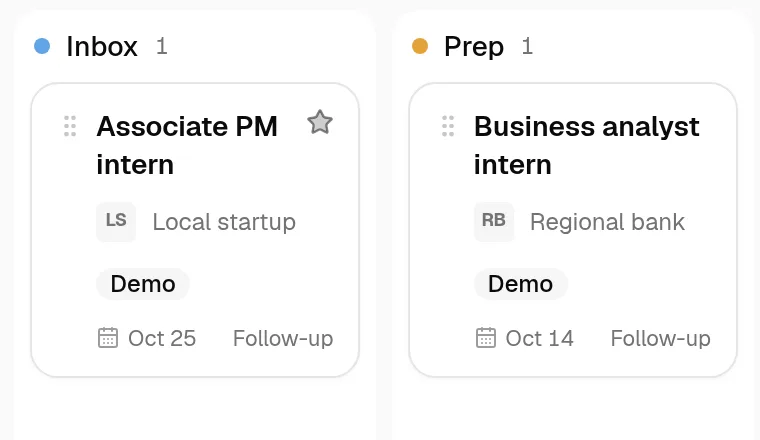
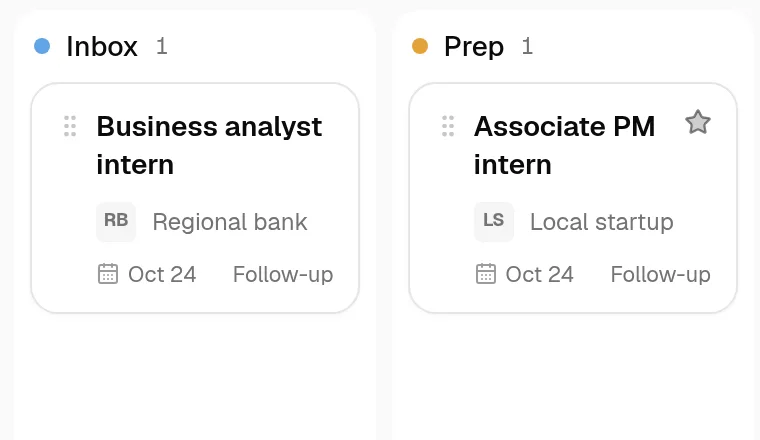
feat: landing round 2 shots and copy

diff --git a/apps/web/src/features/landing/landing-copy.ts b/apps/web/src/features/landing/landing-copy.ts
@@ -2,7 +2,7 @@ export const LANDING_HEADLINE =
   "A first-job coach for Vietnamese students and new graduates."
 
 export const LANDING_SUBHEAD =
-  "OpenCV is one workspace for your job search, with a coach beside you. You write your CV with the coach, then track each application and share one page of your work."
+  "OpenCV is a coach with a CV editor, an application board and a public page for your work. You write the CV with the coach, then send each application and track every answer."
 
 export const LANDING_OBJECTION =
   "Answers come from your CV and goals, and you edit every line."
@@ -31,49 +31,51 @@ export type LandingSurface = {
 export const LANDING_HERO_SHOT: Shot = {
   src: "/landing/coach.webp",
   mobileSrc: "/landing/coach-mobile.webp",
-  width: 1600,
-  height: 573,
+  width: 1440,
+  height: 705,
   mobileWidth: 780,
-  mobileHeight: 820,
-  alt: "A Coach thread. Linh, a student, asks for help preparing for a product intern interview, and the Coach checks her Apply cards and replies with a next step.",
+  mobileHeight: 900,
+  displayWidth: 960,
+  alt: "A Coach thread. Linh, a student, asks which role to apply for first, and the Coach checks her Apply cards and names one, citing her CV.",
 }
 
 export const LANDING_SURFACES: readonly LandingSurface[] = [
   {
     id: "coach",
     label: "Coach",
-    title: "Ask about the role you want.",
-    body: "First, name the job you want. The coach answers from your own CV and goals and ends with a next step.",
+    title: "Find the role to apply for.",
+    body: "First, pick one job: the coach names it from your CV and goals and files it on your board. Every move shows a receipt you can undo.",
     shot: {
-      src: "/landing/coach-home.webp",
-      mobileSrc: "/landing/coach-home-mobile.webp",
-      width: 1600,
-      height: 640,
+      src: "/landing/coach-act.webp",
+      mobileSrc: "/landing/coach-act-mobile.webp",
+      width: 1440,
+      height: 600,
       mobileWidth: 780,
-      mobileHeight: 1080,
-      alt: "OpenCV Home for Linh Tran, a student. The Coach asks what she is aiming for and offers prompts such as Prep interview and Draft cover letter.",
+      mobileHeight: 900,
+      displayWidth: 960,
+      alt: "A Coach thread. Linh asks the Coach to move the Associate PM intern card to Prep, and the Coach shows a receipt with an Undo button.",
     },
   },
   {
     id: "paper",
     label: "Paper",
     title: "Write the CV beside the coach.",
-    body: "Then write your CV with a coach beside you. Tailor it to each role and export it.",
+    body: "Then send a CV written for that job. Pick a bullet, ask the coach to rewrite it, and edit the result.",
     shot: {
       src: "/landing/paper.webp",
       mobileSrc: "/landing/paper-mobile.webp",
       width: 1600,
-      height: 1000,
-      mobileWidth: 780,
-      mobileHeight: 1010,
-      alt: "The Paper editor with Linh Tran's CV open: a student summary and a campus product club role, with a template picker, Tailor for role and Export above the page.",
+      height: 1041,
+      mobileWidth: 790,
+      mobileHeight: 710,
+      alt: "The Paper editor with Linh Tran's CV open beside the Coach, which has rewritten a bullet about classmate interviews into a one-page product spec.",
     },
   },
   {
     id: "apply",
     label: "Apply",
     title: "Track every application.",
-    body: "Next, keep each job you apply for on one board. Move cards from first look to final answer.",
+    body: "Next, see where each application stands: Inbox, Prep, Sent, Live or Closed. Move cards as answers arrive.",
     shot: {
       src: "/landing/apply.webp",
       mobileSrc: "/landing/apply-mobile.webp",
@@ -81,14 +83,14 @@ export const LANDING_SURFACES: readonly LandingSurface[] = [
       height: 467,
       mobileWidth: 760,
       mobileHeight: 440,
-      alt: "The Apply board with an Associate PM intern job in Inbox and a Business analyst intern job in Prep, beside the Sent, Live and Closed columns.",
+      alt: "The Apply board with a Business analyst intern job in Inbox, an Associate PM intern job in Prep and a UX research intern job in Sent.",
     },
   },
   {
     id: "pitch",
     label: "Pitch",
     title: "Share one page of your work.",
-    body: "Last, turn your best work into one page. Send the link with every application.",
+    body: "Last, show what a CV cannot: your projects, in one page you can link. Send it with every application.",
     shot: {
       src: "/landing/pitch.webp",
       mobileSrc: "/landing/pitch-mobile.webp",
@@ -97,12 +99,13 @@ export const LANDING_SURFACES: readonly LandingSurface[] = [
       mobileWidth: 780,
       mobileHeight: 1060,
       displayWidth: 720,
-      alt: "A public Pitch page for Linh Tran, a student aiming for a product intern role, with a status line, story highlights and an About section.",
+      alt: "A public Pitch page for Linh Tran, a student aiming for a product intern role, with an open-to-internships status, story highlights and an About section.",
     },
   },
 ]
 
-export const LANDING_CTA = "Your career, started. Free today."
+export const LANDING_CTA =
+  "Write the CV, send it, and keep every answer in one place. Free today."
 
 export const LANDING_TITLE =
   "OpenCV, a first-job coach for Vietnamese students and new graduates"

diff --git a/apps/web/src/features/landing/landing-page.test.tsx b/apps/web/src/features/landing/landing-page.test.tsx
@@ -25,7 +25,7 @@ describe("landing page", () => {
     )
     expect(
       screen.getByText(
-        "OpenCV is one workspace for your job search, with a coach beside you. You write your CV with the coach, then track each application and share one page of your work."
+        "OpenCV is a coach with a CV editor, an application board and a public page for your work. You write the CV with the coach, then send each application and track every answer."
       )
     ).toBeInTheDocument()
     expect(router.state.location.pathname).toBe("/")
@@ -43,7 +43,7 @@ describe("landing page", () => {
       document.head.querySelector('meta[name="description"]')
     ).toHaveAttribute(
       "content",
-      "OpenCV is one workspace for your job search, with a coach beside you. You write your CV with the coach, then track each application and share one page of your work."
+      "OpenCV is a coach with a CV editor, an application board and a public page for your work. You write the CV with the coach, then send each application and track every answer."
     )
   })
 
@@ -69,7 +69,7 @@ describe("landing page", () => {
     await renderLanding()
 
     const titles = [
-      "Coach. Ask about the role you want.",
+      "Coach. Find the role to apply for.",
       "Paper. Write the CV beside the coach.",
       "Apply. Track every application.",
       "Pitch. Share one page of your work.",
@@ -117,7 +117,9 @@ describe("landing page", () => {
   it("keeps the closing line as plain text with one primary action", async () => {
     await renderLanding()
 
-    const closing = screen.getByText("Your career, started. Free today.")
+    const closing = screen.getByText(
+      "Write the CV, send it, and keep every answer in one place. Free today."
+    )
     expect(closing.tagName).toBe("P")
     expect(closing.children).toHaveLength(0)
     expect(
